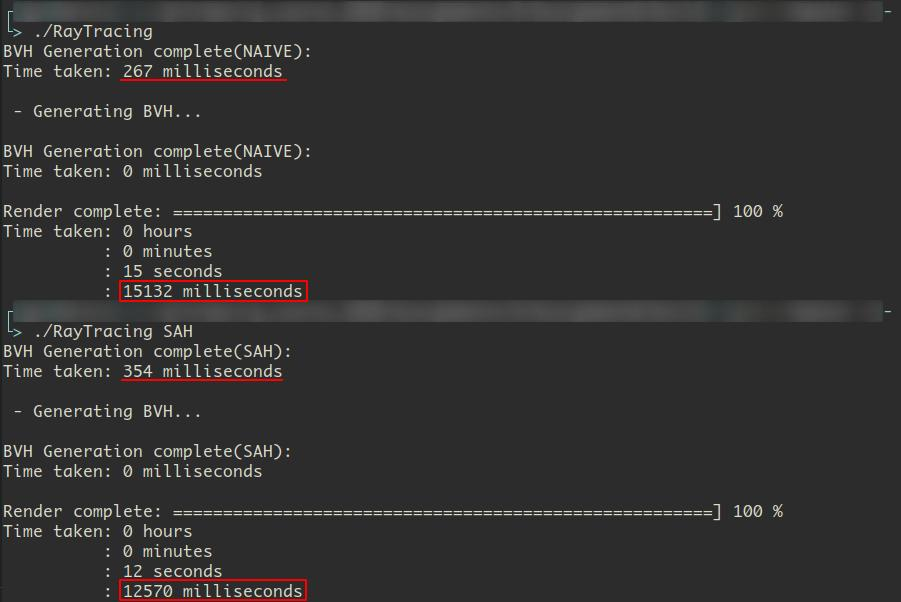
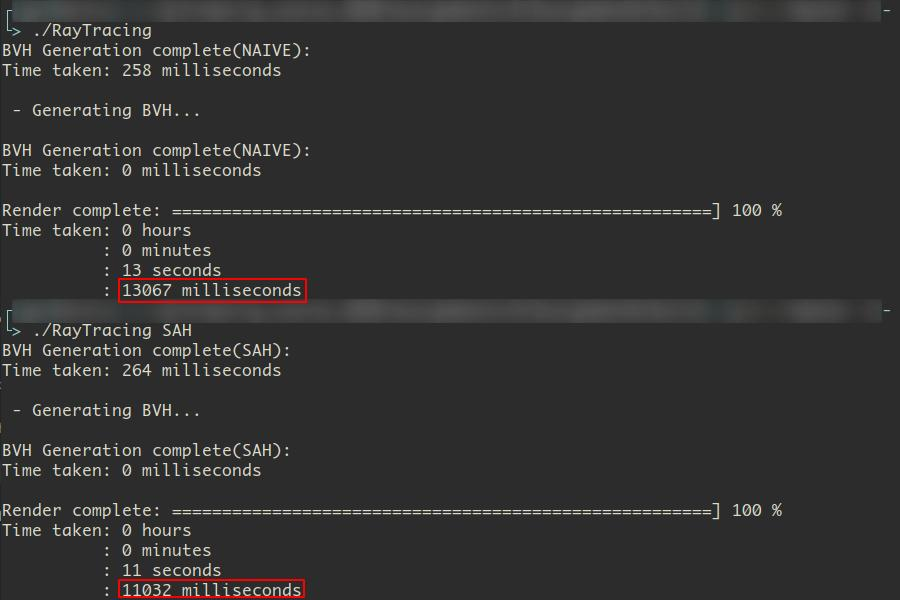
Optimized SAH

diff --git a/assignments/6/Assignment6/BVH.cpp b/assignments/6/Assignment6/BVH.cpp
@@ -129,6 +129,7 @@ BVHBuildNode *BVHAccel::SAHPartition(std::vector<Object *> objects){
         const int nBuckets = 32;
         int cnt[nBuckets];
         Bounds3 aabb[nBuckets];
+        Bounds3 suf[nBuckets];
         std::vector<Object *> bucket[nBuckets];
         float minCost = std::numeric_limits<float>::max();
         int split = -1;
@@ -148,15 +149,17 @@ BVHBuildNode *BVHAccel::SAHPartition(std::vector<Object *> objects){
             bucket[bucIndex].push_back(obj);
             cnt[bucIndex] ++;
         }
+        suf[nBuckets-1] = aabb[nBuckets-1];
+        for(int i = nBuckets - 2; i >= 0; -- i){
+            suf[i] = Union(aabb[i], suf[i+1]);
+        }
         for(int i = 1; i < nBuckets; ++ i){
             cnt[i] += cnt[i-1];
+            aabb[i] = Union(aabb[i], aabb[i-1]);
             int lCnt = cnt[i-1];
             int rCnt = objects.size() - lCnt;
-            Bounds3 lBound, rBound;
-            for(int j = 0; j < i; ++ j)
-                lBound = Union(lBound, aabb[j]);
-            for(int j = i; j < nBuckets; ++ j)
-                rBound = Union(rBound, aabb[j]);
+            Bounds3 lBound = aabb[i-1];
+            Bounds3 rBound = suf[i];
             float ithCost = lBound.SurfaceArea() * lCnt + rBound.SurfaceArea() * rCnt;
             if(ithCost < minCost){
                 minCost = ithCost;

diff --git a/assignments/6/Assignment6/README.md b/assignments/6/Assignment6/README.md
@@ -18,17 +18,17 @@
   - 实验条件:
     - 打开 g++ O2 优化;
     - naive BVH 实现中的 `std::sort` 改为复杂度 O(n) 的 `std::nth_element`;
-    - SAH 加速的 BVH 实现中, 桶的个数使用 32, 每次划分在最长的轴上选择划分点.
+    - SAH 加速的 BVH 实现中, 桶的个数使用 32, 每次划分时, 在最长的轴上选择划分点.
   - 实验结果:
     - 作业中带的 bunny 模型:
-      - naive BVH: 建树 `10 ms`, 渲染 `1041 ms`
-      - SVH 加速: 建树 `17 ms`, 渲染 `934 ms`(-10.3%)
+      - naive BVH: 建树 `11 ms`, 渲染 `933 ms`
+      - SVH 加速: 建树 `10 ms`, 渲染 `838 ms`(降低 10.2%)
       - [结果截图](images/time-diff-bunny.jpg)
     - 论坛中的同学发布的 armadillo 模型 (更大):
-      - naive BVH: 建树 `267 ms`, 渲染 `15132 ms`
-      - SVH 加速: 建树 `354 ms`, 渲染 `12570 ms`(-16.9%)
+      - naive BVH: 建树 `258 ms`, 渲染 `13067 ms`
+      - SVH 加速: 建树 `264 ms`, 渲染 `11032 ms`(降低 15.6%)
       - [结果截图](images/time-diff-armadillo.jpg)
-  - 分析: naive BVH 的建树过程只要 O(n) 找到中位数即可, SVH 的建树过程还有计算 cost 的时间开销, 使用 bucket 是一种加速方式, bucket 数量降低到 16 可以使 SVH 的建树比 naive BVH 更快; 建树之后由于 SVH 的树就是最小化了光线"被浪费"的概率, 所以渲染过程中 SVH 更快. 上面两个测试可以看出 SVH 加速后, 渲染时间大致可以降低多于 10%.
+  - 分析: naive BVH 的建树过程只要 O(n) 找到中位数即可, SVH 的建树过程还要加上计算 cost 的时间开销 (常数复杂度), 使用 bucket 可以降低这一常数; 建树之后由于 SVH 的树已经最小化了光线"被浪费"的概率, 所以在渲染过程中 SVH 更快. 上面两个测试可以看出 SVH 加速后, 渲染速度大致可以优化 10% 至 15%.
 
 ***
 
